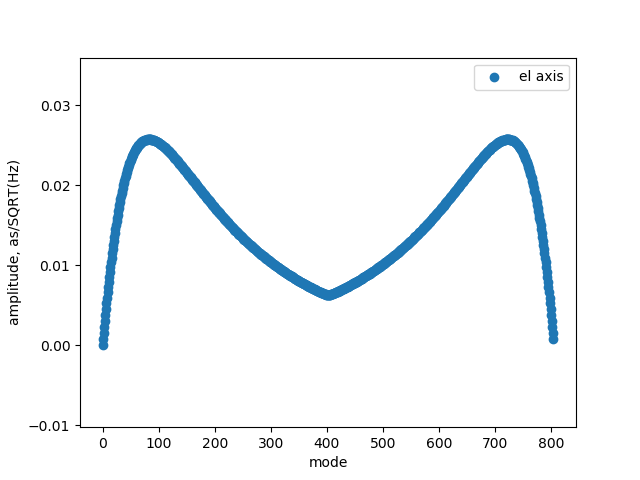
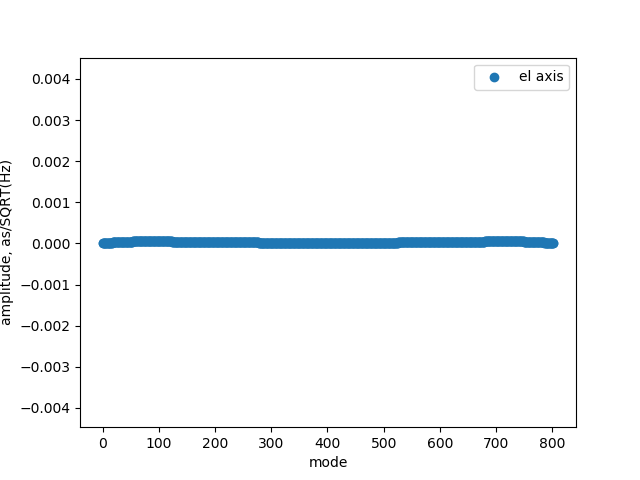
Fix scalings

diff --git a/pointing_error_models/time_series.py b/pointing_error_models/time_series.py
@@ -47,14 +47,17 @@ doplot = 1 # turn off for speed
 
 axes = ["az","el","pxel", "pel"]
 
-
 time_stamps = 65 # currently need to increase (reduce) freq_interval to reduce (increase) number of time series points
 
 for axis in axes:
     print ('*** Creating times series from PSD of %s axis ***'%axis)
     az = axesdict[axis]
 
-    freq_interval = 0.001
+    freq_interval = 0.001  
+
+    df = freq[1:]-freq[:-1]
+    psd2rms_pxel = np.sqrt(np.sum(az[1:]*df))
+    print ('Calculate rms of original PSD: ', psd2rms_pxel)
 
     # the orginal PSD need to be resampled in order to obtain fixed frequency intervals fot the IFFT
     # each PSD is broken into two parts in order to produce better polynomial fits to the data
@@ -75,13 +78,22 @@ for axis in axes:
         max_freq = 0.1
         freq_max_index = np.argwhere(freq>max_freq)[0][0]     
 
+    # construct regularly-spaced frequencies
+    regular_freq = np.arange(freq[0], freq[freq_max_index], freq_interval)
+
+    regular_az_max_index =  np.argwhere(np.abs(regular_freq-freq[az_max_index])==np.min(np.abs(regular_freq-freq[az_max_index])))[0][0]
+
     print ('Frequency break: ', freq[az_max_index])
     print ('Max frequency: ', max_freq)  
+
+    print ('New frequency break: ', regular_freq[regular_az_max_index])
+    print ('New max frequency: ', regular_freq[-1]) 
 
     if az_max_index>=freq_max_index:
         print ('Frequency break is higher than highest frequency; select a lower break')    
         sys.exit()
 
+    # use original frequency break and max frequency to fit function
     # fit polynomial to psd up to max value
     p_az1 = np.polyfit(freq[:az_max_index], az[:az_max_index], 5)
     f_az1 = np.poly1d(p_az1)
@@ -89,16 +101,26 @@ for axis in axes:
     p_az2 = np.polyfit(freq[az_max_index:freq_max_index], az[az_max_index:freq_max_index], 5)
     f_az2 = np.poly1d(p_az2)
 
-
-    #freq_interval2 = (freq[freq_max_index]-freq[0])/time_stamps
+    # use new frequency break and max frequency to apply function (ensures equal spacing of frequency intervals)
 
     # resampled to construct regularly-spaced frequencies
-    regular_freq1 = np.arange(freq[0], freq[az_max_index], freq_interval)
-    regular_az1 = f_az1(regular_freq1)
-    regular_freq2 = np.arange( freq[az_max_index],freq[freq_max_index] ,freq_interval)
-    regular_az2 = f_az2(regular_freq2)
-    regular_freq = np.append(regular_freq1, regular_freq2)
+ 
+    regular_az1 = f_az1(regular_freq[:regular_az_max_index])
+
+    regular_az2 = f_az2(regular_freq[regular_az_max_index:])
+
+    # join
     regular_az = np.append(regular_az1,regular_az2)
+
+    M0 = len(regular_az)
+   # print (len(regular_az))
+    #regular_freq = regular_freq[:M0]
+    #print (M0, len(regular_freq))
+
+    #  check rms of resampled PSD
+    df = regular_freq[1:]-regular_freq[:-1]
+    psd2rms_pxel = np.sqrt(np.sum(regular_az[:-1]*df))
+    print ('Calculate rms of resampled PSD: ', psd2rms_pxel)
 
     if (regular_az<0).any():
         print ('Resampling returns negative power values; change fit range')
@@ -115,16 +137,20 @@ for axis in axes:
         plt.savefig(plotdir+'sampled_psd_%s.png'%axis)
 
     # get amplitudes from psd values
-    amp_az = np.sqrt(regular_az) 
+
+    amp_az = np.sqrt(regular_az*(2*freq_interval))*(M0)
+    # need to scale PSD by 2* frequency interval before square rooting, then by number of modes in resampled PSD
+
+    amp_az = np.sqrt(regular_az*2*freq_interval)
 
     # window function to smooth edges
     #amp_az = np.hamming(len(amp_az))*amp_az # not sure if necessary?
 
     # generate some random phases
-    phi_az = np.random.rand(len(regular_az))*2*np.pi
+    phi_az = np.random.rand(M0)*2*np.pi
   
     # create complex array
-    z_az = amp_az * np.exp(1j*phi_az) # polar
+    z_az = amp_az * np.exp(1j*phi_az) # 
 
     # construct Hermitian PSD in order to produce real signal
  
@@ -144,9 +170,12 @@ for axis in axes:
     # add a 0 Fourier term
     z_az = np.append(0.* np.exp(1j*0.),z_az) # 0 DC component since mean 0 of time series(?)
     regular_freq = np.append(0, regular_freq)
+
+
+
     # set up and check scalings
     M=len(z_az)
-    print ('Number of frequencies: ', M) # N=M+1
+    print ('Number of frequencies: ', M) 
 
 
     # perform inverse fft
@@ -165,11 +194,16 @@ for axis in axes:
 #
     tmax = (N-1)*Dt
     print('tmax: ', tmax)
-    print ()
 
-    ts.real*=np.sqrt(N) # the result is scaled by number of points in the signal, so multiply - real part - by this
-  # see https://docs.scipy.org/doc/numpy/reference/routines.fft.html for scaling desciption
-  # ! this is wrong - appears to be scaled by 1/sqrt(N) - maybe since hermitian?
+
+
+
+    ts.real*=(M0) 
+    # the result is scaled by number of points in sampled PSD (before hermitian), so multiply - real part - by this
+    # see https://docs.scipy.org/doc/numpy/reference/routines.fft.html for scaling desciption 
+    # this doesnt mention the scaling from PSD to FFT above
+    # this combination of scalings works to recover orginal rms
+
 
 
     # The output of the iFFT will be a random time series on the finite 
@@ -191,11 +225,12 @@ for axis in axes:
         plt.savefig(plotdir+'time_series_%s.png'%axis)
     
     np.save(outdir+'time_series_%s'%axis, ts.real)
-
+    print ('Calculate times series rms: %s'%(np.std(np.real(ts))))
+    print ()
     if doplot:
-        # check fft returns original PSD (amplitudes plotted again)
-        ts.real/=np.sqrt(N)
-        fft =  np.fft.fft(ts)
+        # check fft returns original PSD (amplitudes plotted)
+        ts.real/=M0
+        fft =  np.fft.fft(ts.real)
 
         plt.clf()
         plt.scatter(np.arange(len(fft)), (np.absolute(fft))**2, label = '%s axis'%axis) 
